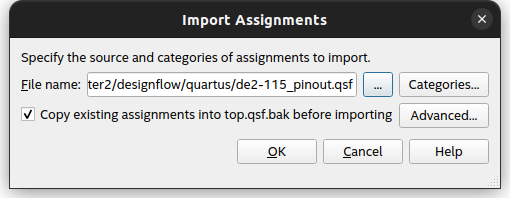
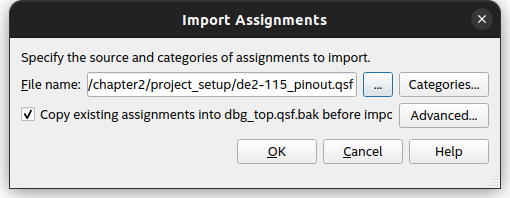
move pinout; correct expected sof name created from 462a5fac5d9c08e8757191a016fd281fb0f8154c

Changed region(s): [[0.1471, 0.3939, 0.7059, 0.4848], [0.4412, 0.5455, 0.7941, 0.6364]]

diff --git a/chapter2/project_setup/task.md b/chapter2/project_setup/task.md
@@ -212,7 +212,7 @@ To import them close the Pin Planner and select `Assignments -> Import Assignmen
 
 ![Import Assignments Window](.mdata/import_assignments.png)
 
-Select the file `de2-115_pinout.qsf` of the `quartus` directory and click `OK`.
+Select the file `de2-115_pinout.qsf` of the `project_setup` task directory and click `OK`.
 Afterwards open the Pin Planner again.
 
 ![Pin Planner after the import of the pinout](.mdata/pp.png)
@@ -340,7 +340,7 @@ This command installs the tools `rpa_shell` and `rpa_gui`, RPA standing for Remo
 ### RPA Configuration
 Open a terminal and run `rpa_shell`.
 When you run this the first time, a configuration wizard will be executed.
-The URL is `ssh.tilab.tuwien.ac.at`, the username is the one you also use for the lab (`m` followed by your student id).
+The URL is `ssh.tuwien.ac.at`, the username is the one you also use for the lab (`h`followed by your student id).
 Next, the wizard will ask you if you already created an SSH key.
 If you did, you can enter `y` and then specify its location.
 Otherwise, or if you want a dedicated new key, you can enter `n` and let the wizard create one for you (the passphrase is optional).
